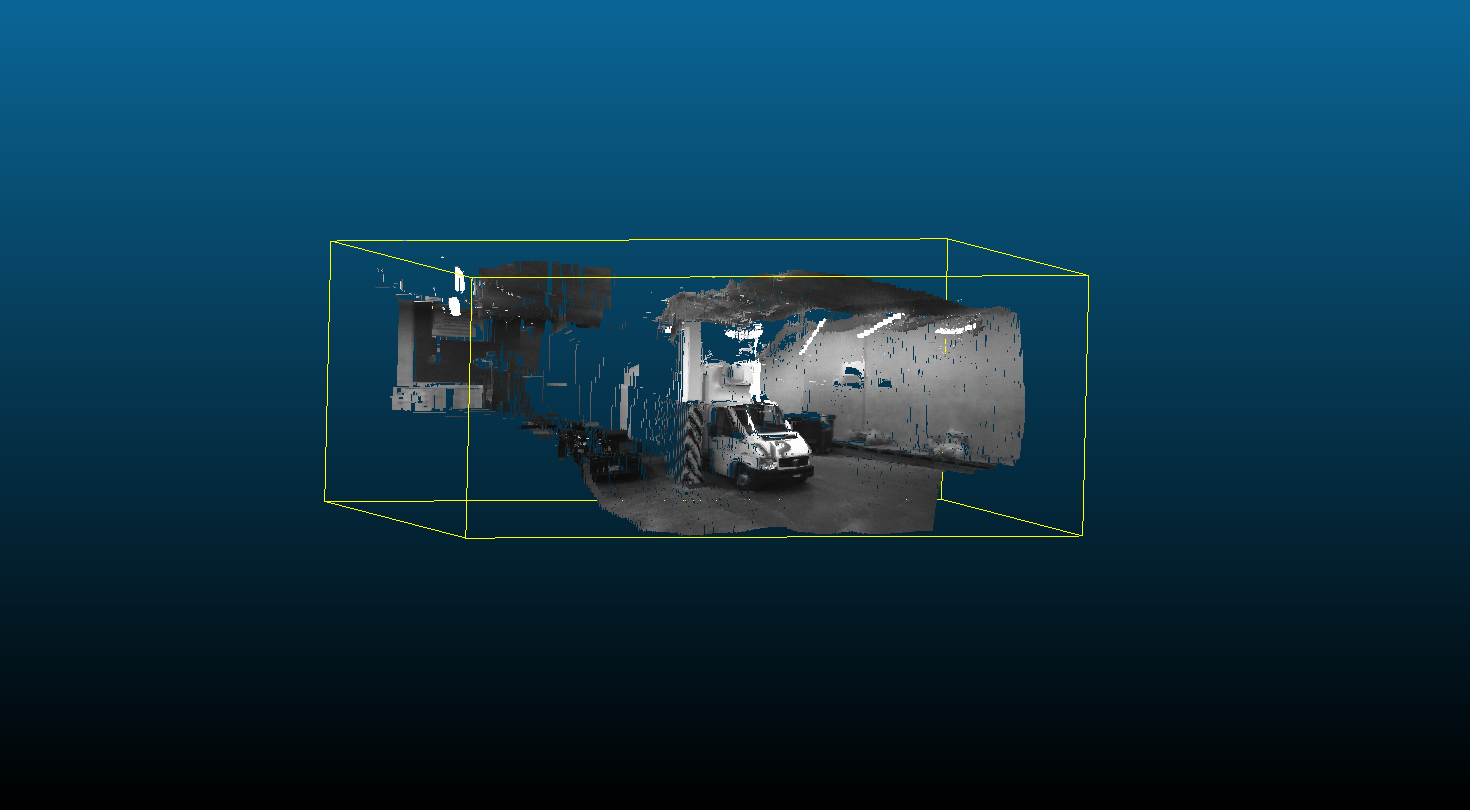
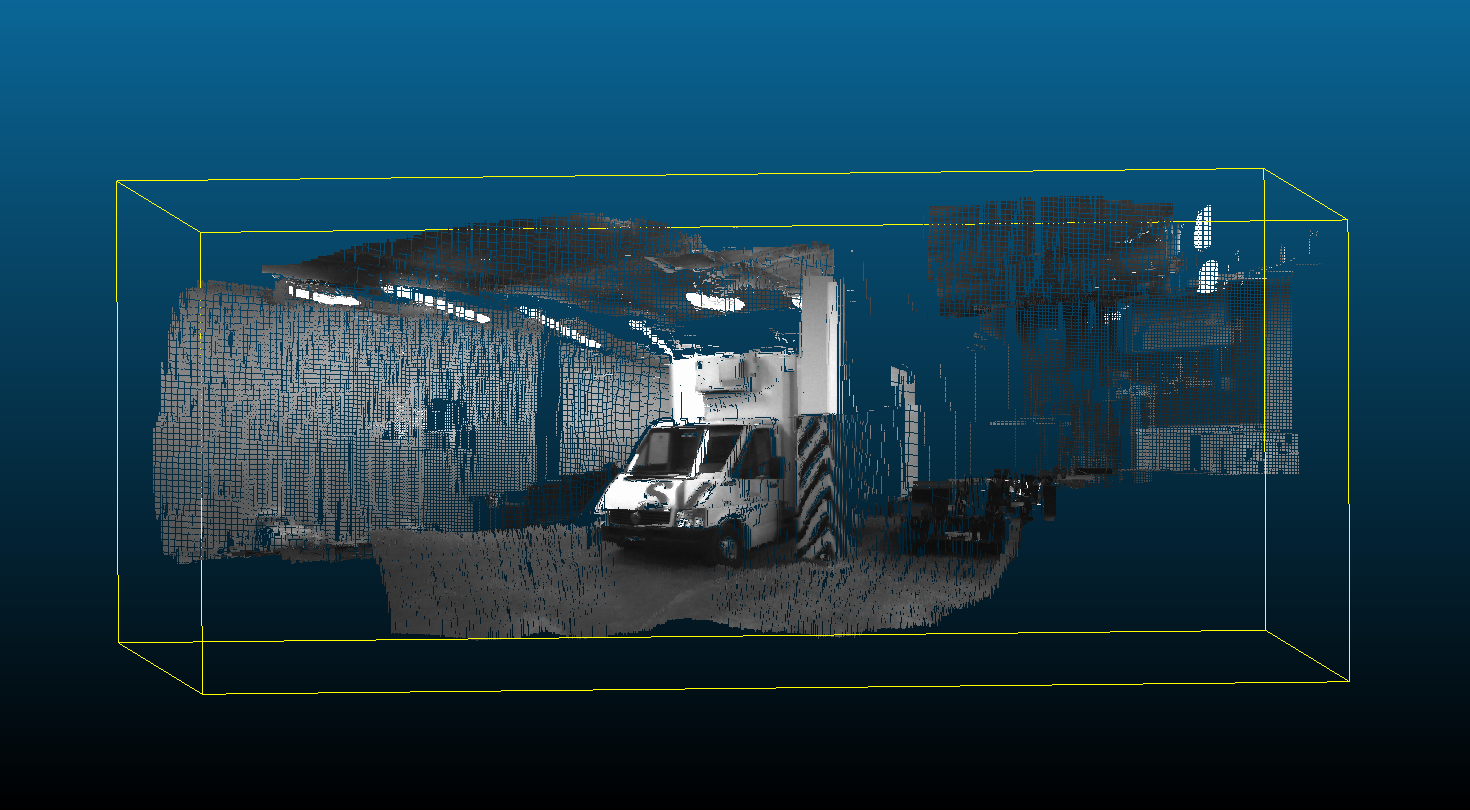
Fix mirrored point cloud generation

Changed region(s): [[0.0918, 0.2469, 0.8878, 0.8025]]

diff --git a/README.md b/README.md
@@ -5,3 +5,7 @@
 <p align="center">
   <img src="doc/render_mesh.png" alt="Rendered point cloud"/>
 </p>
+
+<p align="center">
+  <img src="doc/render_mesh2.png" alt="Rendered point cloud"/>
+</p>
